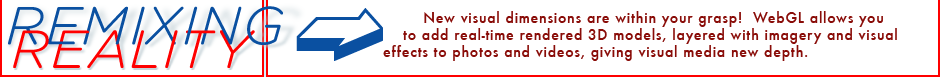
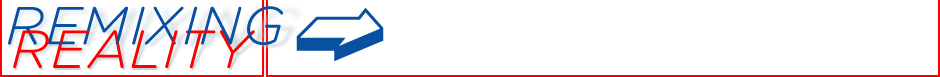
WOFF for header

diff --git a/demos/remixingreality/demo.html b/demos/remixingreality/demo.html
@@ -11,13 +11,19 @@
 <script src="audio_vis.js"></script>
 <script src="canvas_scripts.js"></script>
 <script src="AR_demo.js"></script>
-
+<script src="http://mozilla.org/script/1.0/jquery-1.4.3.min.js"></script>
+<script src="jquery.lettering.js"></script>
+<script>
+$(document).ready(function() {
+  $('#header').lettering('lines');
+});
+</script>
     <style>
-        /* MetaWebPro font family licensed from fontshop.com. WOFF-FTW! */
+/* MetaWebPro font family licensed from fontshop.com. WOFF-FTW! */
         @font-face {
             font-family: 'MetaBlack';
             src: url('http://mozcom-cdn.mozilla.net/img/fonts/MetaWebPro-Black.eot');
-            src: local('☺'), url('http://mozcom-cdn.mozilla.net/img/fonts/MetaWebPro-Black.woff') format('woff');
+            src: local('â˜º'), url('http://mozcom-cdn.mozilla.net/img/fonts/MetaWebPro-Black.woff') format('woff');
             font-weight: bold;
         }
 
@@ -57,6 +63,9 @@
 
         body {
             background : url('i/bg.png') repeat-x left top;
+            font-family : MetaBlack;
+            font-size : 16px;
+            color : #890c08;
         }
 
         #wrap {
@@ -64,9 +73,19 @@
             margin : 0px auto;
         }
         #header {
-            width : 940px;
-            height : 77px;
+            width : 555px;
+            height : 67px;
+            padding : 10px 0 0 385px;
             background : url('i/header.png') no-repeat left top;
+        }
+        #header span {
+            display : block;
+        }
+        #header .line1 {
+            margin-left : 39px;
+        }
+        #header .line2 {
+            margin-left : 19px;
         }
 
         #main {
@@ -109,9 +128,6 @@
             padding : 0 150px;
         }
         #pick {
-            font-family : MetaBlack;
-            font-size : 16px;
-            color : #890c08;
         }
         #toggleAR {
             border : none;
@@ -142,13 +158,12 @@
         .rpl {
             text-indent : -9999em;
         }
-
     </style>
 </head>
 <body>
     <div id="wrap">
-        <div id="header">
-        </div>
+        <!--div id="header">&nbsp;&nbsp;&nbsp;&nbsp;&nbsp;&nbsp;&nbsp;&nbsp;&nbsp;&nbsp;New visual dimensions are within your grasp!  WebGL allows you<br />&nbsp;&nbsp;&nbsp;&nbsp;to add real-time rendered 3D models, layered with imagery and visual<br />effects to photos and videos, giving visual media new depth.</div-->
+        <div id="header">New visual dimensions are within your grasp! WebGL allows you<br />to add real-time rendered 3D models, layered with imagery and visual<br />effects to photos and videos, giving visual media new depth.</div>
 
         <div id="main" class="cf">
             <div id="col-left">

diff --git a/demos/remixingreality/jquery.lettering.js b/demos/remixingreality/jquery.lettering.js
@@ -1,0 +1,66 @@
+/*global jQuery */
+/*!	
+* Lettering.JS 0.6.1
+*
+* Copyright 2010, Dave Rupert http://daverupert.com
+* Released under the WTFPL license 
+* http://sam.zoy.org/wtfpl/
+*
+* Thanks to Paul Irish - http://paulirish.com - for the feedback.
+*
+* Date: Mon Sep 20 17:14:00 2010 -0600
+*/
+(function($){
+	function injector(t, splitter, klass, after) {
+		var a = t.text().split(splitter), inject = '';
+		if (a.length) {
+			$(a).each(function(i, item) {
+				inject += '<span class="'+klass+(i+1)+'">'+item+'</span>'+after;
+			});	
+			t.empty().append(inject);
+		}
+	}
+	
+	var methods = {
+		init : function() {
+
+			return this.each(function() {
+				injector($(this), '', 'char', '');
+			});
+
+		},
+
+		words : function() {
+
+			return this.each(function() {
+				injector($(this), ' ', 'word', ' ');
+			});
+
+		},
+		
+		lines : function() {
+
+			return this.each(function() {
+				var r = "eefec303079ad17405c889e092e105b0";
+				// Because it's hard to split a <br/> tag consistently across browsers,
+				// (*ahem* IE *ahem*), we replaces all <br/> instances with an md5 hash 
+				// (of the word "split").  If you're trying to use this plugin on that 
+				// md5 hash string, it will fail because you're being ridiculous.
+				injector($(this).children("br").replaceWith(r).end(), r, 'line', '');
+			});
+
+		}
+	};
+
+	$.fn.lettering = function( method ) {
+		// Method calling logic
+		if ( method && methods[method] ) {
+			return methods[ method ].apply( this, [].slice.call( arguments, 1 ));
+		} else if ( method === 'letters' || ! method ) {
+			return methods.init.apply( this, [].slice.call( arguments, 0 ) ); // always pass an array
+		}
+		$.error( 'Method ' +  method + ' does not exist on jQuery.lettering' );
+		return this;
+	};
+
+})(jQuery);
